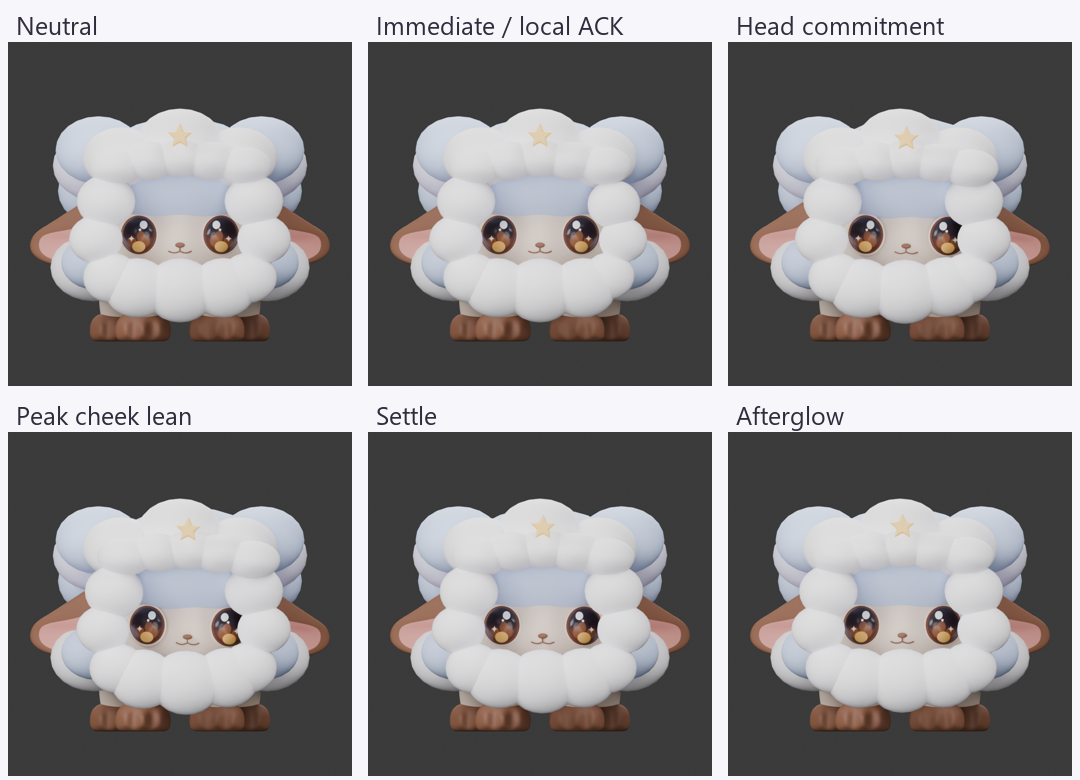
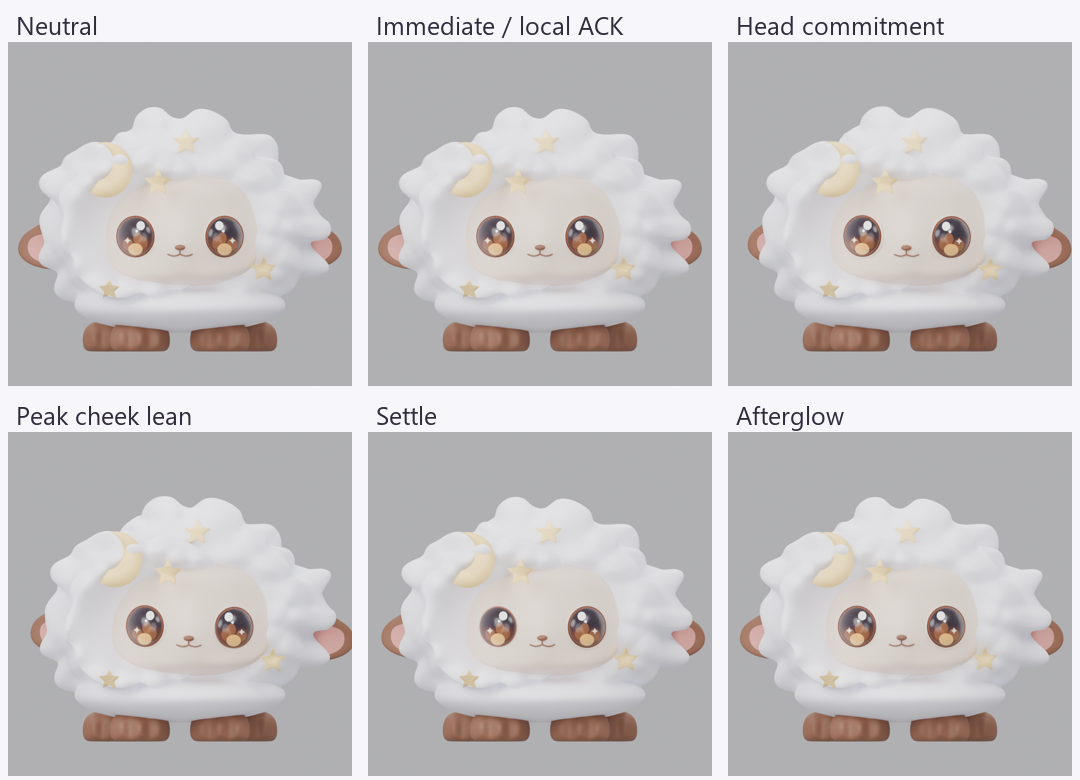
refine(carol): reuse full-3d fleece for hero experience probe

diff --git a/docs/production/carol/evidence/hero-experience-probe-v001/human-review.html b/docs/production/carol/evidence/hero-experience-probe-v001/human-review.html
@@ -1,30 +1,32 @@
 <!doctype html>
 <html lang="en"><head><meta charset="utf-8"><meta name="viewport" content="width=device-width,initial-scale=1">
-<title>Carol Hero Experience Probe v001 — Human review</title>
+<title>Carol Hero Experience Probe v001 — Attempt 2</title>
 <style>
 :root{font-family:system-ui,-apple-system,"Segoe UI",sans-serif;color:#312c3c;background:#faf8fd}*{box-sizing:border-box}body{margin:0}main{max-width:1200px;margin:auto;padding:28px 20px 70px}h1{font-size:clamp(1.8rem,4vw,3rem);margin:.3em 0}h2{margin:0 0 14px;font-size:1.4rem}section{margin-top:34px;padding:22px;background:white;border:1px solid #e9e3ef;border-radius:18px;box-shadow:0 5px 22px #55446c0d}.eyebrow{font-weight:800;color:#744b88;letter-spacing:.08em}.meta{display:flex;gap:10px;flex-wrap:wrap}.meta span{background:#eee7f5;border-radius:99px;padding:8px 14px;font-weight:650}.note{color:#625a68}.refs{display:grid;grid-template-columns:repeat(3,minmax(0,1fr));gap:12px}.refs figure{margin:0;background:#f9f7fb;border-radius:12px;padding:10px;text-align:center}.refs img{width:100%;height:280px;object-fit:contain}.refs figcaption{font-weight:650;margin-top:8px}.hero{display:block;max-width:760px;width:100%;margin:auto}video{display:block;width:100%;max-width:860px;margin:auto;background:#25212b;border-radius:10px}.sheet{display:block;width:100%}ol{line-height:1.55;padding-left:1.7em}li{padding:7px 0;border-bottom:1px solid #eee9f1}@media(max-width:700px){.refs{grid-template-columns:1fr}.refs img{height:220px}section{padding:16px}}
 </style></head><body><main>
 <div class="eyebrow">HUMAN EXPERIENCE REVIEW REQUIRED</div>
-<h1>Carol Hero Experience Probe v001</h1>
-<div class="meta"><span>Source: v011-A3</span><span>Status: PENDING HUMAN REVIEW</span></div>
-<p class="note">Fleece and rig are provisional. The fixed Hero camera shows one cheek-touch response. Please judge the experience from the evidence below.</p>
-<section><h2>1. Identity reference</h2><div class="refs">
+<h1>Carol Hero Experience Probe v001 — Attempt 2</h1>
+<div class="meta"><span>Source Geometry: v011-A3</span><span>Fleece Donor: v004 Carol_Fleece_Continuous</span><span>Status: PENDING HUMAN REVIEW</span></div>
+<p class="note">Historical Full-3D donor fleece is reused for this probe. The transferred fleece and its motion controls are provisional. No production geometry, fleece, rig or animation promotion is implied. Judge one cheek-touch phrase from the fixed front Hero camera.</p>
+<section><h2>1. Identity Authority</h2><div class="refs">
 <figure><img src="../../../../../assets/grimo/source/carol/carol-Identity-canonical.png" alt="Carol canonical identity"><figcaption>Canonical identity</figcaption></figure>
 <figure><img src="../../../../../assets/grimo/source/carol/approved-3d/carol_front.png" alt="Approved Carol Normal Front"><figcaption>Approved Normal Front</figcaption></figure>
 <figure><img src="../../../../../assets/grimo/source/carol/approved-3d/carol_side.png" alt="Approved Carol Normal Side"><figcaption>Approved Normal Side</figcaption></figure>
-</div><p class="note">References only; unchanged.</p></section>
-<section><h2>2. Hero neutral</h2><img class="hero" src="hero-neutral.png" alt="Carol provisional fleece in fixed front Hero neutral pose"></section>
-<section><h2>3. Primary motion — cheek touch</h2><video src="hero-motion.mp4" controls autoplay loop muted playsinline preload="metadata">Your browser does not support MP4 playback.</video><p class="note">Pause or scrub to inspect local contact, head commitment, peak lean, settle and afterglow.</p></section>
-<section><h2>4. Motion contact sheet</h2><img class="sheet" src="hero-contact-sheet.png" alt="Six labeled stages of the cheek-touch response"></section>
-<section><h2>5. Human questions</h2><ol>
-<li><strong>Identity:</strong> Does this still read unmistakably as Carol?</li>
-<li><strong>Cuteness:</strong> Is Carol cute/appealing enough in the Hero view?</li>
+</div></section>
+<section><h2>2. Hero Neutral</h2><img class="hero" src="hero-neutral.png" alt="Carol with transferred Full-3D fleece in neutral pose"></section>
+<section><h2>3. Authority Comparison</h2><img class="sheet" src="hero-neutral-comparison.png" alt="Unwarped approved Normal Front beside Attempt 2 Hero neutral"></section>
+<section><h2>4. Primary Motion</h2><video src="hero-motion.mp4" controls muted playsinline preload="metadata">Your browser does not support MP4 playback.</video><p class="note">Play, pause and scrub to inspect local contact, head commitment, peak lean, settle and afterglow.</p></section>
+<section><h2>5. Motion Contact Sheet</h2><img class="sheet" src="hero-contact-sheet.png" alt="Six labeled stages of the cheek-touch response"></section>
+<section><h2>6. Human Questions</h2><ol>
+<li><strong>Identity:</strong> Does this read unmistakably as Carol?</li>
+<li><strong>Cuteness:</strong> Is Carol cute / appealing enough in the Hero view?</li>
 <li><strong>Face / eyes:</strong> Do the face and oversized eyes remain attractive during motion?</li>
-<li><strong>Fleece identity:</strong> Does the provisional fleece establish the intended Carol silhouette strongly enough to continue?</li>
+<li><strong>Fleece identity:</strong> Does the reused Full-3D fleece establish the intended Carol cloud silhouette strongly enough for this architecture test?</li>
 <li><strong>Touch causality:</strong> Does the cheek-touch response visibly originate from the contacted region?</li>
 <li><strong>Weight:</strong> Does Carol feel grounded rather than floating or sliding?</li>
 <li><strong>Motion character:</strong> Does the interaction feel relaxed, soft and attention-seeking rather than generic or hyperactive?</li>
 <li><strong>Geometry exposure:</strong> Is any head / jaw / cheek / chest defect visibly damaging the experience?</li>
-<li><strong>Deformation:</strong> Does the lean introduce any obvious collapse, intersection or ugly deformation?</li>
-<li><strong>Overall:</strong> Is this architecture promising enough to continue into targeted correction rather than another zero-based reconstruction?</li>
+<li><strong>Deformation:</strong> Does the lean introduce any obvious collapse, clipping, ugly intersection or loss of identity?</li>
+<li><strong>Overall:</strong> Is this architecture promising enough to continue through targeted correction rather than another zero-based reconstruction?</li>
+<li><strong>Probe validity:</strong> Is the reused fleece close enough to Carol's intended Hero appearance that the underlying v011 geometry and motion architecture can now be judged fairly?</li>
 </ol></section></main></body></html>

diff --git a/scripts/blender/carol-hero-experience-probe-v001-attempt2.py b/scripts/blender/carol-hero-experience-probe-v001-attempt2.py
@@ -1,0 +1,195 @@
+"""Reuse v004's Full-3D fleece and motifs on unchanged v011-A3 for one Hero probe."""
+import bpy
+import math
+import os
+import sys
+from mathutils import Vector, Matrix
+
+root = sys.argv[sys.argv.index('--') + 1]
+mode = sys.argv[sys.argv.index('--') + 2]
+out = os.path.join(root, 'docs', 'production', 'carol', 'evidence', 'hero-experience-probe-v001')
+donor = os.path.join(root, 'assets', 'grimo', 'production', 'carol', 'blender', 'carol-blockout-v004.blend')
+scene = bpy.context.scene
+
+# Registration measured against the two source blends: v004 front is -Y,
+# lateral is X, ground is Z=.025; v011 front is -X, lateral is Y, ground Z=0.
+# A single .30 uniform scale gives a .82-high fleece above the hoof clearance.
+# v004's geometric fleece center (X about -.06) maps close to v011 Y=0.
+S = .30
+def register(v):
+    return Vector((.48 + S*v.y, S*v.x, S*v.z - .0075))
+
+names = ['Carol_Fleece_Continuous', 'Carol_Moon_Attached',
+         'Carol_Star_CrownStar', 'Carol_Star_TopStar',
+         'Carol_Star_WoolStar', 'Carol_Star_ChestStar']
+with bpy.data.libraries.load(donor, link=False) as (src, dst):
+    dst.objects = [name for name in names if name in src.objects]
+assert len(dst.objects) == len(names), [o.name for o in dst.objects]
+objects = {}
+for obj in dst.objects:
+    obj.parent = None
+    obj.matrix_world = Matrix.Identity(4)
+    obj.data = obj.data.copy()
+    scene.collection.objects.link(obj)
+    obj.name = 'DONOR ' + obj.name
+    objects[obj.name] = obj
+    for v in obj.data.vertices:
+        v.co = register(v.co)
+    obj.data.update()
+
+fleece = objects['DONOR Carol_Fleece_Continuous']
+assert len(fleece.data.vertices) == 164272
+
+# One donor-only low-order facial clearance. The continuous fleece is retained;
+# its front sheet recedes under the larger v011 face and oversized eyes.
+# No v011 source vertex, donor source file, or donor topology changes.
+for v in fleece.data.vertices:
+    x,y,z = v.co
+    face = math.exp(-((y/.345)**4 + ((z-.425)/.205)**4))
+    front = max(0.0, min(1.0, (.31-x)/.31))
+    v.co.x += .235*face*front
+fleece.data.update()
+
+# The original crescent was placed beside a right-shifted v004 face. Move its
+# copied motif above the left side of v011's centered face; keep spatial depth.
+moon = objects['DONOR Carol_Moon_Attached']
+for v in moon.data.vertices:
+    v.co.x -= .08
+    v.co.y += .50
+    v.co.z += .12
+moon.data.update()
+
+def material(name, color, rough=.78):
+    m = bpy.data.materials.new(name)
+    m.diffuse_color = (*color, 1)
+    m.use_nodes = True
+    bsdf = m.node_tree.nodes.get('Principled BSDF')
+    bsdf.inputs['Base Color'].default_value = (*color, 1)
+    bsdf.inputs['Roughness'].default_value = rough
+    return m
+
+ivory = material('PROBE donor warm ivory', (.90,.89,.99))
+gold = material('PROBE donor warm gold', (1.0,.72,.23), .45)
+fleece.data.materials.clear(); fleece.data.materials.append(ivory)
+for obj in objects.values():
+    if obj != fleece:
+        obj.data.materials.clear(); obj.data.materials.append(gold)
+
+cam = bpy.data.objects['CAM front']; scene.camera = cam
+cam.data.type = 'ORTHO'; cam.data.ortho_scale = 1.25
+scene.render.engine = 'CYCLES'; scene.cycles.samples = 12
+scene.render.resolution_x = 720; scene.render.resolution_y = 720
+scene.render.resolution_percentage = 100
+scene.render.image_settings.file_format = 'PNG'
+scene.render.film_transparent = False
+scene.world.color = (.8,.8,.8)
+scene.world.use_nodes = True
+background = scene.world.node_tree.nodes.get('Background')
+background.inputs['Color'].default_value = (.72,.72,.76,1)
+background.inputs['Strength'].default_value = .8
+scene.view_settings.view_transform = 'AgX'
+scene.frame_set(1)
+if mode == 'precheck':
+    scene.render.filepath = os.path.join(out, 'hero-neutral-precheck.png')
+    bpy.ops.render.render(write_still=True)
+    print('DONOR_PRECHECK_COMPLETE')
+    sys.exit(0)
+
+def empty(name, pos, parent=None):
+    o = bpy.data.objects.new(name, None)
+    scene.collection.objects.link(o)
+    o.location = pos
+    o.empty_display_size = .035
+    if parent:
+        bpy.context.view_layer.update()
+        o.parent = parent
+        o.matrix_parent_inverse = parent.matrix_world.inverted()
+    return o
+
+head = empty('PROBE head base owner', (.35,0,.44))
+ear_secondary = empty('PROBE near ear secondary', (.42,-.27,.48), head)
+bpy.context.view_layer.update()
+
+def parent_keep(obj, owner):
+    obj.parent = owner
+    obj.matrix_parent_inverse = owner.matrix_world.inverted()
+
+for name in ('EYE_L','EYE_R','EYELID_L','EYELID_R','NOSE','PHILTRUM',
+             'MOUTH_closed','EAR_L'):
+    parent_keep(bpy.data.objects[name], head)
+parent_keep(bpy.data.objects['EAR_R'], ear_secondary)
+for name in ('DONOR Carol_Moon_Attached', 'DONOR Carol_Star_CrownStar',
+             'DONOR Carol_Star_TopStar', 'DONOR Carol_Star_WoolStar'):
+    parent_keep(objects[name], head)
+
+def smoothstep(a,b,x):
+    t=max(0,min(1,(x-a)/(b-a)))
+    return t*t*(3-2*t)
+
+# Donor-only animation keys retain the grounded body and displace the crown,
+# adjacent cheek and upper cover in the same direction as the owned face.
+fleece.shape_key_add(name='DONOR neutral', from_mix=False)
+ack = fleece.shape_key_add(name='DONOR local cheek ACK', from_mix=False)
+seek = fleece.shape_key_add(name='DONOR head-owned lean', from_mix=False)
+body = fleece.shape_key_add(name='DONOR upper-body delay', from_mix=False)
+for i,v in enumerate(fleece.data.vertices):
+    x,y,z=v.co
+    contact=math.exp(-(((y+.295)/.105)**2+((z-.405)/.115)**2)) * (1-smoothstep(.22,.45,x))
+    head_weight=smoothstep(.36,.67,z) * (1-smoothstep(.38,.82,x))
+    body_weight=smoothstep(.21,.52,z)*(1-smoothstep(.55,.95,z))
+    ack.data[i].co=v.co+Vector((.022*contact,-.008*contact,-.004*contact))
+    seek.data[i].co=v.co+Vector((-.013*head_weight,-.044*head_weight,.004*head_weight))
+    body.data[i].co=v.co+Vector((0,-.013*body_weight,0))
+
+chassis=bpy.data.objects['CENTRAL_CHASSIS']
+chassis.shape_key_add(name='PROBE neutral',from_mix=False)
+lean=chassis.shape_key_add(name='PROBE cranial lean',from_mix=False)
+for i,v in enumerate(chassis.data.vertices):
+    co=v.co.copy()
+    weight=1-smoothstep(.20,.56,co.x)
+    lean.data[i].co=co+Vector((-.012*weight,-.041*weight,.004*weight))
+
+def key(obj, channel, values):
+    for frame,value in values:
+        setattr(obj,channel,value)
+        obj.keyframe_insert(data_path=channel,frame=frame)
+def key_value(shape, values):
+    for frame,value in values:
+        shape.value=value; shape.keyframe_insert(data_path='value',frame=frame)
+
+scene.render.fps=24; scene.frame_start=1; scene.frame_end=120
+key_value(ack,[(1,0),(3,1),(8,.55),(18,0),(120,0)])
+key_value(seek,[(1,0),(8,0),(27,.78),(45,1),(72,.18),(95,.10),(120,0)])
+key_value(body,[(1,0),(17,0),(42,1),(70,.35),(120,0)])
+key_value(lean,[(1,0),(8,0),(27,.78),(45,1),(72,.18),(95,.10),(120,0)])
+key(head,'location',[(1,(.35,0,.44)),(8,(.35,0,.44)),(27,(.339,-.029,.443)),
+                     (45,(.337,-.039,.443)),(72,(.348,-.010,.44)),
+                     (95,(.348,-.006,.44)),(120,(.35,0,.44))])
+key(head,'rotation_euler',[(1,(0,0,0)),(9,(0,0,0)),(28,(.012,-.015,-.018)),
+                           (45,(.018,-.020,-.020)),(72,(.004,-.005,-.005)),(120,(0,0,0))])
+key(ear_secondary,'rotation_euler',[(1,(0,0,0)),(17,(0,0,0)),
+                                    (34,(.032,0,-.018)),(56,(.015,0,-.008)),
+                                    (80,(0,0,0)),(120,(0,0,0))])
+
+scene.frame_set(1)
+if mode == 'control_precheck':
+    scene.render.filepath = os.path.join(out, 'hero-control-precheck.png')
+    bpy.ops.render.render(write_still=True)
+    print('CONTROL_PRECHECK_COMPLETE')
+    sys.exit(0)
+probe=os.path.join(root,'assets','grimo','production','carol','blender',
+                   'carol-hero-experience-probe-v001.blend')
+bpy.context.preferences.filepaths.save_version=0
+bpy.ops.wm.save_as_mainfile(filepath=probe)
+for frame,label in [(1,'neutral'),(3,'ack'),(27,'head'),(45,'peak'),(72,'settle'),(95,'afterglow')]:
+    scene.frame_set(frame)
+    scene.render.resolution_percentage=100
+    scene.render.filepath=os.path.join(out,'frame-'+label+'.png')
+    bpy.ops.render.render(write_still=True)
+os.replace(os.path.join(out,'frame-neutral.png'),os.path.join(out,'hero-neutral.png'))
+for frame in range(1,121,2):
+    scene.frame_set(frame)
+    scene.render.resolution_percentage=75
+    scene.render.filepath=os.path.join(out,'motion-%03d.png'%frame)
+    bpy.ops.render.render(write_still=True)
+print('ATTEMPT2_COMPLETE',probe)

diff --git a/scripts/blender/carol-hero-probe-v001-attempt2-validate.py b/scripts/blender/carol-hero-probe-v001-attempt2-validate.py
@@ -1,0 +1,25 @@
+"""Targeted saved-blend checks for the Carol donor reuse experiment."""
+import bpy
+
+scene = bpy.context.scene
+fleece = bpy.data.objects['DONOR Carol_Fleece_Continuous']
+assert fleece.type == 'MESH' and len(fleece.data.vertices) == 164272
+assert not any(o.name.startswith('PROXY ') for o in scene.objects)
+assert all(bpy.data.objects[name].parent == bpy.data.objects['PROBE head base owner']
+           for name in ('EYE_L','EYE_R','EAR_L','DONOR Carol_Moon_Attached',
+                        'DONOR Carol_Star_CrownStar','DONOR Carol_Star_TopStar'))
+assert bpy.data.objects['EAR_R'].parent == bpy.data.objects['PROBE near ear secondary']
+assert all(name in fleece.data.shape_keys.key_blocks for name in
+           ('DONOR local cheek ACK','DONOR head-owned lean','DONOR upper-body delay'))
+assert scene.frame_start == 1 and scene.frame_end == 120
+assert scene.camera.name == 'CAM front'
+hooves = [o for o in scene.objects if o.name.startswith('HOOF_')]
+assert len(hooves) == 4
+scene.frame_set(1)
+base = [[list(row) for row in o.matrix_world] for o in hooves]
+scene.frame_set(45)
+peak = [[list(row) for row in o.matrix_world] for o in hooves]
+assert base == peak, 'Hoof world transform changed during contact motion'
+assert fleece.data.shape_keys.key_blocks['DONOR head-owned lean'].value > .99
+assert bpy.data.objects['PROBE head base owner'].animation_data is not None
+print('ATTEMPT2_BLEND_VALIDATION_PASS')

diff --git a/scripts/blender/carol-hero-experience-evidence-v001.py b/scripts/blender/carol-hero-experience-evidence-v001.py
@@ -6,6 +6,20 @@ import sys
 
 root = Path(sys.argv[1])
 folder = root / 'docs/production/carol/evidence/hero-experience-probe-v001'
+authority = root / 'assets/grimo/source/carol/approved-3d/carol_front.png'
+comparison = Image.new('RGB',(1440,800),'#f7f6fb')
+cdraw = ImageDraw.Draw(comparison)
+cmp_font = ImageFont.truetype('C:/Windows/Fonts/segoeui.ttf',27)
+for i,(label,file) in enumerate([('Approved Normal Front',authority),('Attempt 2 / fixed Hero neutral',folder/'hero-neutral.png')]):
+    source = Image.open(file).convert('RGBA')
+    source.thumbnail((680,690))  # Uniform scaling only; authority aspect is preserved.
+    tile = Image.new('RGBA',source.size,'white')
+    tile.alpha_composite(source)
+    x = i*720 + (720-source.width)//2
+    y = 64 + (700-source.height)//2
+    comparison.paste(tile.convert('RGB'),(x,y))
+    cdraw.text((i*720+24,18),label,font=cmp_font,fill='#302c3c')
+comparison.save(folder/'hero-neutral-comparison.png')
 beats = [('Neutral','hero-neutral.png'), ('Immediate / local ACK','frame-ack.png'),
          ('Head commitment','frame-head.png'), ('Peak cheek lean','frame-peak.png'),
          ('Settle','frame-settle.png'), ('Afterglow','frame-afterglow.png')]

diff --git a/scripts/blender/carol-hero-donor-audit-v001.py b/scripts/blender/carol-hero-donor-audit-v001.py
@@ -1,0 +1,30 @@
+"""Print compact world-space landmarks for the bounded v004 to v011 transfer."""
+import bpy
+import json
+from mathutils import Vector
+
+
+def bounds(obj):
+    points = [obj.matrix_world @ Vector(corner) for corner in obj.bound_box]
+    return [[round(min(p[i] for p in points), 5) for i in range(3)],
+            [round(max(p[i] for p in points), 5) for i in range(3)]]
+
+
+records = []
+for obj in bpy.data.objects:
+    if obj.type != 'MESH' and obj.type != 'CAMERA':
+        continue
+    if obj.type == 'MESH':
+        box = bounds(obj)
+    else:
+        box = None
+    records.append({
+        'name': obj.name,
+        'type': obj.type,
+        'parent': obj.parent.name if obj.parent else None,
+        'location': [round(v, 5) for v in obj.matrix_world.translation],
+        'bounds': box,
+        'vertices': len(obj.data.vertices) if obj.type == 'MESH' else None,
+        'materials': [m.name if m else None for m in obj.data.materials] if obj.type == 'MESH' else None,
+    })
+print('AUDIT_JSON ' + json.dumps(records, separators=(',', ':')))

diff --git a/docs/production/carol/CAROL_PRODUCTION_STATE.md b/docs/production/carol/CAROL_PRODUCTION_STATE.md
@@ -2,18 +2,20 @@
 
 This file is the single mutable Carol execution truth.
 
-## Current Hero experience probe — 2026-09-23
+## Current Hero experience probe — Attempt 2, 2026-09-24
 
-- Branch: `codex/carol-hero-experience-probe-v001`, from `chore/goal-backward-production-system` remote HEAD `578717efb221b82f4f55e5eac47402b802a2a79d`. No newer Carol production commit was present at execution start.
-- Selected attempt: **v001 Attempt 1**. Source geometry: **v011-A3**, provisional experiment source only. Probe asset: `assets/grimo/production/carol/blender/carol-hero-experience-probe-v001.blend`. The source `carol-v011.blend` remains unchanged.
-- Provisional fleece: large spatial torso/crown masses and a limited set of front/cheek scallops in ivory, periwinkle and lilac, plus one simple star cue. This is coarse appearance proxy geometry, not final fleece or final motif treatment.
-- Provisional controls: localized v011 cranial shape key; separate head/face pivot; upper-torso, contacted cheek, adjacent fleece and one-ear controls. Hooves and root stay fixed. No production rig or weights.
-- Motion tested: one fixed-front-camera, five-second cheek-touch phrase with immediate local compression, head-led contact-seeking lean, delayed local fleece/ear response, weighted settle and short residual hold.
-- Human evidence: [neutral](evidence/hero-experience-probe-v001/hero-neutral.png), [motion](evidence/hero-experience-probe-v001/hero-motion.mp4), [contact sheet](evidence/hero-experience-probe-v001/hero-contact-sheet.png), [review page](evidence/hero-experience-probe-v001/human-review.html).
-- Executor-observed limitations: the fleece uses visibly separate round proxy masses, the canonical moon and fuller star motif are absent, and the face-framing puffs crowd the outer eye/cheek region at peak lean. The known v011 Side under-jaw/head-to-chest and Side eye limitations were not repaired; the fixed front evidence does not establish their acceptability outside this Hero view. The response is one authored phrase with limited facial expression, not extended companion behavior.
[1 lines of base64/hex data omitted]
-- Human Experience Review: **PENDING HUMAN REVIEW**. No production geometry promotion, production fleece, production rig, production animation approval, GLB/runtime work, or Human PASS is claimed.
-- Handoff: **CHATGPT_PLANNER — evaluate Carol Hero Experience Probe v001 with Human review**.
+- Branch: `codex/carol-hero-experience-probe-v001`; execution started at exact pushed HEAD `c6f3df031adb72dd3e1697c9da91f6d56471fa3d`.
+- **Attempt 1 = UNKNOWN**: its newly generated sphere proxy fleece and loose head/fleece ownership confounded Human review. It is preserved in commit `c6f3df0`, not a v011 geometry or architecture failure.
[2 lines of base64/hex data omitted]
+- Registration: donor front `-Y` maps to v011 front `-X`; donor lateral `X` maps to v011 lateral `Y`; both use `Z` up. One uniform scale `.30` maps donor world `(x,y,z)` to v011 `(.48 + .30y, .30x, .30z - .0075)`. This aligns donor hoof-ground `.025` to v011 ground `0`, puts donor front relief beside the v011 face, and gives the fleece an approximately `.82` high envelope. No v011 source edit or per-axis scale was used.
+- Donor-only adaptation: a smooth, low-order front facial clearance pushes copied fleece locally back by at most `.235` around the larger v011 face/eye region. The copied crescent is shifted `(-.08,+.50,+.12)` in v011 XYZ to sit on the upper left cloud without covering the eye. Copied crown, top, wool and chest stars remain attached to the transferred spatial fleece presentation. All transferred components retain their donor meshes; the fleece keeps its 164,272 vertices.
+- Provisional motion ownership: v011 eyes, eyelids, nose, mouth and both ear bases use a head owner; the near ear adds a delayed secondary owner. The v011 chassis has one localized cranial lean key. The donor fleece has local cheek ACK, head-owned lean and upper-body delay shape keys. Head-owned motifs follow the head control. Root and four hooves remain fixed. One 120-frame fixed-camera phrase covers cheek contact, acknowledgement, attention, contact-seeking lean, delayed nearby response, settle and afterglow.
+- Human evidence: [neutral](evidence/hero-experience-probe-v001/hero-neutral.png), [unwarped authority comparison](evidence/hero-experience-probe-v001/hero-neutral-comparison.png), [motion](evidence/hero-experience-probe-v001/hero-motion.mp4), [contact sheet](evidence/hero-experience-probe-v001/hero-contact-sheet.png), [review page](evidence/hero-experience-probe-v001/human-review.html).
+- Executor-observed limitations: the donor's relief remains pale and materially simple compared with the approved painted fleece; its large front face opening and partly embedded crescent visibly differ from Normal Front. The local ACK and head lean are small in the fixed Hero view. Known v011 Side under-jaw/head-to-chest and Side eye limitations were not repaired or evaluated by this front probe. This is one authored phrase, not extended behavior.
+- Targeted checks: saved probe reopened; donor fleece and motif objects exist; shape-key controls animate; hoof transforms are unchanged at peak; six beats rendered; H.264 540×540/5.04 s MP4 encodes and decodes; all seven HTML media references resolve; source and donor hashes remain unchanged. Canonical identity and approved Front/Side files are unmodified.
+- Browser review status: localhost delivery and playback verification are scheduled after push. **Human Experience Review = PENDING HUMAN REVIEW**. No production geometry or fleece promotion, production rig, production animation approval, GLB/runtime integration or Human PASS is claimed.
+- Handoff: **CHATGPT_PLANNER — evaluate Carol Hero Experience Probe v001 Attempt 2 with Human review**.
 
 ## Current state — 2026-09-23
 
